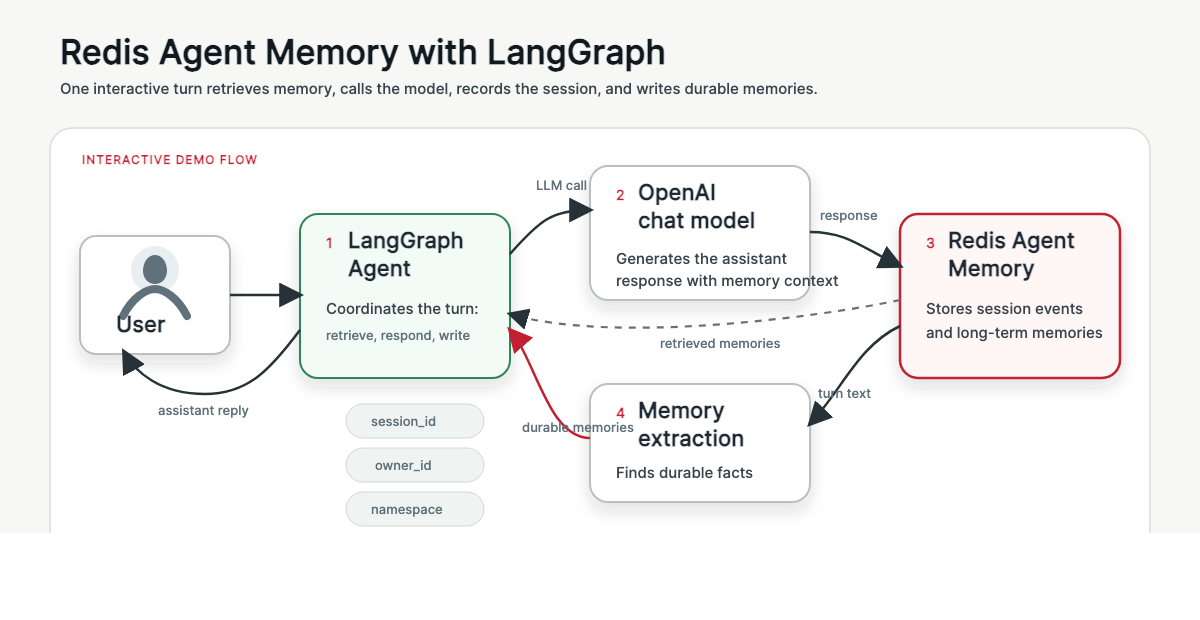
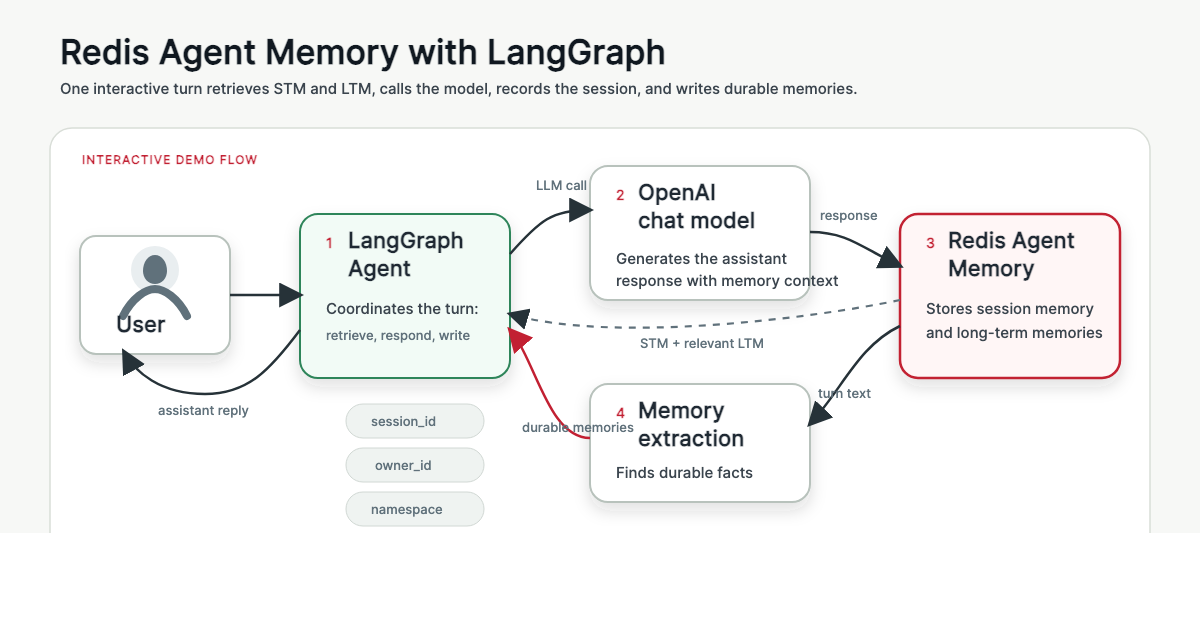
Added support for STM

Changed region(s): [[0.2158, 0.1226, 0.7092, 0.1532], [0.5242, 0.521, 0.6475, 0.5823], [0.8633, 0.4903, 0.925, 0.521]]

diff --git a/demo.py b/demo.py
@@ -14,7 +14,7 @@ from langchain_openai import ChatOpenAI
 from langgraph.graph import END, START, StateGraph
 from langgraph.graph.message import add_messages
 from pydantic import BaseModel, Field
-from redis_agent_memory import AgentMemory, models
+from redis_agent_memory import AgentMemory, errors, models
 from rich.console import Console
 from rich.panel import Panel
 from rich.table import Table
@@ -23,6 +23,7 @@ from typing_extensions import TypedDict
 
 console = Console()
 DEMO_SOURCE = "langgraph-demo"
+SESSION_CONTEXT_LIMIT = 12
 
 
 class MemoryCandidate(BaseModel):
@@ -40,6 +41,7 @@ class AgentState(TypedDict):
     owner_id: str
     session_id: str
     namespace: str
+    session_context: list[str]
     recalled_memories: list[str]
 
 
@@ -115,6 +117,33 @@ def get_memory_text(memory: object) -> str:
     return str(getattr(memory, "text", ""))
 
 
+def coerce_events(response: object) -> list[object]:
+    events = getattr(response, "events", None)
+    if events is None and isinstance(response, dict):
+        events = response.get("events")
+    return list(events or [])
+
+
+def get_event_role(event: object) -> str:
+    role = event.get("role") if isinstance(event, dict) else getattr(event, "role", "")
+    return str(getattr(role, "value", role)).lower()
+
+
+def get_event_text(event: object) -> str:
+    content = event.get("content", []) if isinstance(event, dict) else getattr(event, "content", [])
+    parts = []
+    for item in content or []:
+        if isinstance(item, dict):
+            parts.append(str(item.get("text", "")))
+        else:
+            parts.append(str(getattr(item, "text", "")))
+    return "\n".join(part for part in parts if part)
+
+
+def is_not_found_error(exc: Exception) -> bool:
+    return isinstance(exc, errors.NotFoundErrorResponseContent) or getattr(exc, "status_code", None) == 404
+
+
 def explain_agent_memory_error(operation: str, exc: Exception) -> RuntimeError:
     hint = (
         f"Redis Agent Memory {operation} failed. Check AGENT_MEMORY_SERVER_URL, "
@@ -131,7 +160,25 @@ class RedisAgentMemoryLangGraphDemo:
         self.extractor = self.llm.with_structured_output(MemoryExtraction)
 
     def build_graph(self, agent_memory: AgentMemory):
-        def retrieve_memories(state: AgentState) -> dict:
+        def retrieve_session_context(state: AgentState) -> dict:
+            try:
+                response = agent_memory.get_session_memory(session_id=state["session_id"])
+            except Exception as exc:
+                if is_not_found_error(exc):
+                    show_memories("Short-Term Memory for Current Session", [])
+                    return {"session_context": []}
+                raise explain_agent_memory_error("session memory read", exc)
+
+            session_context = []
+            for event in coerce_events(response)[-SESSION_CONTEXT_LIMIT:]:
+                text = get_event_text(event).strip()
+                if text:
+                    session_context.append(f"{get_event_role(event)}: {text}")
+
+            show_memories("Short-Term Memory for Current Session", session_context)
+            return {"session_context": session_context}
+
+        def retrieve_long_term_memories(state: AgentState) -> dict:
             last_user_message = next(
                 (message for message in reversed(state["messages"]) if isinstance(message, HumanMessage)),
                 None,
@@ -153,24 +200,33 @@ class RedisAgentMemoryLangGraphDemo:
             except Exception as exc:
                 raise explain_agent_memory_error("long-term memory search", exc)
             recalled = [get_memory_text(memory) for memory in coerce_memories(response)]
-            show_memories("Recalled from Redis Agent Memory", recalled)
+            show_memories("Relevant Long-Term Memory", recalled)
             return {"recalled_memories": recalled}
 
         def call_model(state: AgentState) -> dict:
-            memory_context = "\n".join(f"- {memory}" for memory in state["recalled_memories"])
-            if not memory_context:
-                memory_context = "- No relevant long-term memories found."
+            session_context = "\n".join(f"- {event}" for event in state["session_context"])
+            if not session_context:
+                session_context = "- No previous turns in this session."
+
+            long_term_context = "\n".join(f"- {memory}" for memory in state["recalled_memories"])
+            if not long_term_context:
+                long_term_context = "- No relevant long-term memories found."
 
             system_prompt = f"""You are a polished travel concierge.
 
-Use the relevant long-term memories when they help, but do not mention implementation details.
+Use short-term memory for continuity within the current session.
+Use long-term memory for durable user facts, preferences, and constraints.
+Do not mention implementation details.
 Keep answers concise, specific, and naturally personalized.
 
+Short-term memory from this session:
+{session_context}
+
 Relevant long-term memories:
-{memory_context}
+{long_term_context}
 """
             response = self.llm.invoke([SystemMessage(content=system_prompt), *state["messages"]])
-            console.print(Panel(message_text(response), title="Assistant", border_style="green"))
+            console.print(Panel(message_text(response), title="🤖 AI", border_style="green"))
             return {"messages": [response]}
 
         def write_memory(state: AgentState) -> dict:
@@ -212,12 +268,22 @@ Relevant long-term memories:
                 [
                     SystemMessage(
                         content=(
-                            "Extract only durable user facts, preferences, constraints, "
-                            "or stable travel context worth remembering for future sessions. "
-                            "Skip transient requests and anything already implied by the assistant."
+                            "Extract only durable user facts, persistent preferences, and stable constraints "
+                            "that the user explicitly states in the current message and that should help in future "
+                            "unrelated sessions. Do not extract active task details, current itinerary details, "
+                            "dates, destinations, booking requests, or other context that only matters for this "
+                            "conversation unless the user explicitly asks to remember it for later. Do not extract "
+                            "anything that is only mentioned by the assistant or already present in existing "
+                            "long-term memories."
                         )
                     ),
-                    HumanMessage(content=f"User: {user_text}\nAssistant: {assistant_text}"),
+                    HumanMessage(
+                        content=(
+                            f"Current user message:\n{user_text}\n\n"
+                            "Existing long-term memories:\n"
+                            + "\n".join(f"- {memory}" for memory in state["recalled_memories"])
+                        )
+                    ),
                 ]
             )
 
@@ -250,23 +316,26 @@ Relevant long-term memories:
             return {}
 
         builder = StateGraph(AgentState)
-        builder.add_node("retrieve_memories", retrieve_memories)
+        builder.add_node("retrieve_session_context", retrieve_session_context)
+        builder.add_node("retrieve_long_term_memories", retrieve_long_term_memories)
         builder.add_node("call_model", call_model)
         builder.add_node("write_memory", write_memory)
-        builder.add_edge(START, "retrieve_memories")
-        builder.add_edge("retrieve_memories", "call_model")
+        builder.add_edge(START, "retrieve_session_context")
+        builder.add_edge("retrieve_session_context", "retrieve_long_term_memories")
+        builder.add_edge("retrieve_long_term_memories", "call_model")
         builder.add_edge("call_model", "write_memory")
         builder.add_edge("write_memory", END)
         return builder.compile()
 
     def ask(self, graph, session_id: str, user_text: str) -> AgentState:
-        console.print(Panel(user_text, title=f"User ({session_id})", border_style="cyan"))
+        console.print(Panel(user_text, title=f"👤 User ({session_id})", border_style="cyan"))
         return graph.invoke(
             {
                 "messages": [HumanMessage(content=user_text)],
                 "owner_id": self.config.owner_id,
                 "session_id": session_id,
                 "namespace": self.config.namespace,
+                "session_context": [],
                 "recalled_memories": [],
             }
         )
@@ -279,15 +348,20 @@ Relevant long-term memories:
             api_key=self.config.agent_memory_api_key,
         ) as agent_memory:
             graph = self.build_graph(agent_memory)
-            console.rule("[bold]Redis Agent Memory + LangGraph Interactive Demo[/bold]")
-            show_demo_context(self.config, session)
+            console.rule("[bold]Redis Agent Memory with LangGraph Demo[/bold]")
             console.print(
-                "Type a message for the agent. Commands: [bold]/new[/bold] starts a fresh session, "
-                "[bold]/where[/bold] shows Redis Insight lookup values, [bold]/quit[/bold] exits."
+                Panel(
+                    "[bold]Type a message to chat with the agent.[/bold]\n\n"
+                    "[cyan]/new[/cyan]   Start a fresh session\n"
+                    "[cyan]/where[/cyan] Show Redis Insight lookup values\n"
+                    "[cyan]/quit[/cyan]  Exit the demo",
+                    title="Commands",
+                    border_style="blue",
+                )
             )
             while True:
                 try:
-                    user_text = input("\nYou> ").strip()
+                    user_text = input("\n👤 You> ").strip()
                 except EOFError:
                     break
                 if user_text.lower() in {"quit", "exit", "/quit", "/exit"}:

diff --git a/README.md b/README.md
@@ -2,9 +2,9 @@
 
 ## Overview
 
-This demo demonstrates how [Redis Agent Memory](https://pypi.org/project/redis-agent-memory/) can add durable memory to a LangGraph agent. Built with Python, LangGraph, OpenAI, and the `redis-agent-memory` Python client, it shows how an agent can remember user facts and preferences across sessions while keeping the interaction simple enough for a user walkthrough.
+This demo demonstrates how [Redis Agent Memory](https://pypi.org/project/redis-agent-memory/) can add memory to a LangGraph agent. Built with Python, LangGraph, OpenAI, and the `redis-agent-memory` Python client, it shows how an agent can use session-scoped short-term memory for the current conversation and durable long-term memory for user facts and preferences across sessions.
 
-The demo runs as an interactive terminal assistant. You type messages into the agent, observe how memories are stored and retrieved, inspect data using Redis Insight when useful, start a fresh session, and then ask follow-up questions that rely on long-term memory.
+The demo runs as an interactive terminal assistant. You type messages into the agent, observe how session memory and long-term memory are stored and retrieved, inspect data using Redis Insight when useful, start a fresh session, and then ask follow-up questions that rely on durable long-term memory.
 
 ## Table of Contents
 
@@ -21,8 +21,9 @@ The demo runs as an interactive terminal assistant. You type messages into the a
 
 - Demonstrate Redis as a memory persistence layer for agentic applications.
 - Show how to integrate Redis Agent Memory through the Python client.
-- Illustrate the LangGraph pattern of retrieving memory before an LLM call and writing memory after a turn.
-- Show the difference between a session conversation and durable long-term memory.
+- Illustrate the LangGraph pattern of retrieving short-term and long-term memory before an LLM call.
+- Show the difference between session-scoped short-term memory and durable long-term memory.
+- Keep current conversation details in short-term memory while extracting only durable facts and preferences into long-term memory.
 - Provide a simple way to verify your Redis Agent Memory service endpoint.
 
 ## Setup
@@ -118,8 +119,21 @@ uv run python demo.py
 The demo opens an interactive prompt:
 
 ```text
-You>
+👤 You>
 ```
+
+Each turn prints the short-term memory loaded for the current session, the relevant long-term memories retrieved for the current request, and any newly extracted long-term memories.
+
+### Memory Model
+
+The demo intentionally separates two memory scopes:
+
+| Memory scope      | Backed by Redis Agent Memory | Used for                                                    |
+|:------------------|:-----------------------------|:------------------------------------------------------------|
+| Short-term memory | Session memory               | Current conversation context, active itinerary details, and follow-up continuity. |
+| Long-term memory  | Long-term memory             | Durable user facts, persistent preferences, and stable constraints. |
+
+Current trip details such as dates, destinations, and booking requests stay in short-term memory unless the user explicitly asks the agent to remember them for later. Durable details such as a user's name or recurring travel preferences can be extracted into long-term memory.
 
 ### Examples of Interactions
 
@@ -133,29 +147,31 @@ You>
 
 ### Useful Commands
 
-- `/new` starts a fresh session while keeping the same long-term memory owner.
+- `/new` starts a fresh short-term memory session while keeping the same long-term memory owner.
 - `/where` prints the `store_id`, `owner_id`, `namespace`, and current `session_id`.
 - `/quit` exits the demo.
 
 ### Suggested Recording Flow
 
 1. Start the demo with `uv run python demo.py`.
-2. Tell the agent a durable fact or preference.
-3. Inspect Redis Insight to show the new long-term memory.
-4. Type `/new` to start a fresh session.
-5. Ask the agent a question that requires the previous memory.
-6. Inspect Redis Insight again to show the memory being reused.
+2. Ask for help with a multi-turn travel request and notice the session context appearing as short-term memory.
+3. Tell the agent a durable fact or recurring preference.
+4. Inspect Redis Insight to show session events and newly extracted long-term memory.
+5. Type `/new` to start a fresh short-term memory session.
+6. Ask the agent a question that relies on durable long-term memory.
+7. Inspect Redis Insight again to show the memory being reused.
 
 ## Architecture
 
-The demo uses LangGraph to model one agent turn as a small graph:
+The demo uses LangGraph to model one agent turn as a small graph while Redis Agent Memory provides both session-scoped short-term memory and durable long-term memory:
 
-1. Retrieve relevant long-term memories from Redis Agent Memory.
-2. Inject those memories into the OpenAI system prompt.
-3. Generate the assistant response.
-4. Write the user and assistant messages as session events.
-5. Extract durable facts and preferences from the turn.
-6. Write extracted memories back to Redis Agent Memory.
+1. Retrieve the current session memory from Redis Agent Memory as short-term memory.
+2. Retrieve relevant long-term memories from Redis Agent Memory.
+3. Inject both memory contexts into the OpenAI system prompt.
+4. Generate the assistant response.
+5. Write the user and assistant messages as session events.
+6. Extract only durable facts and preferences from the turn.
+7. Write extracted long-term memories back to Redis Agent Memory.
 
 ![Redis Agent Memory with LangGraph architecture](images/architecture-diagram.png)
 
@@ -163,6 +179,7 @@ The demo uses LangGraph to model one agent turn as a small graph:
 
 - The demo requires a reachable Agent Memory Server data-plane endpoint.
 - Memory extraction is performed by the LLM, so phrasing can vary between runs.
+- The demo uses Redis Agent Memory session APIs for short-term memory, not LangGraph's native checkpointer interface.
 - Re-running the same durable fact may create the same deterministic memory ID and depend on server-side idempotency behavior.
 - Redis Insight inspection depends on how your Agent Memory Server stores data internally.
 
